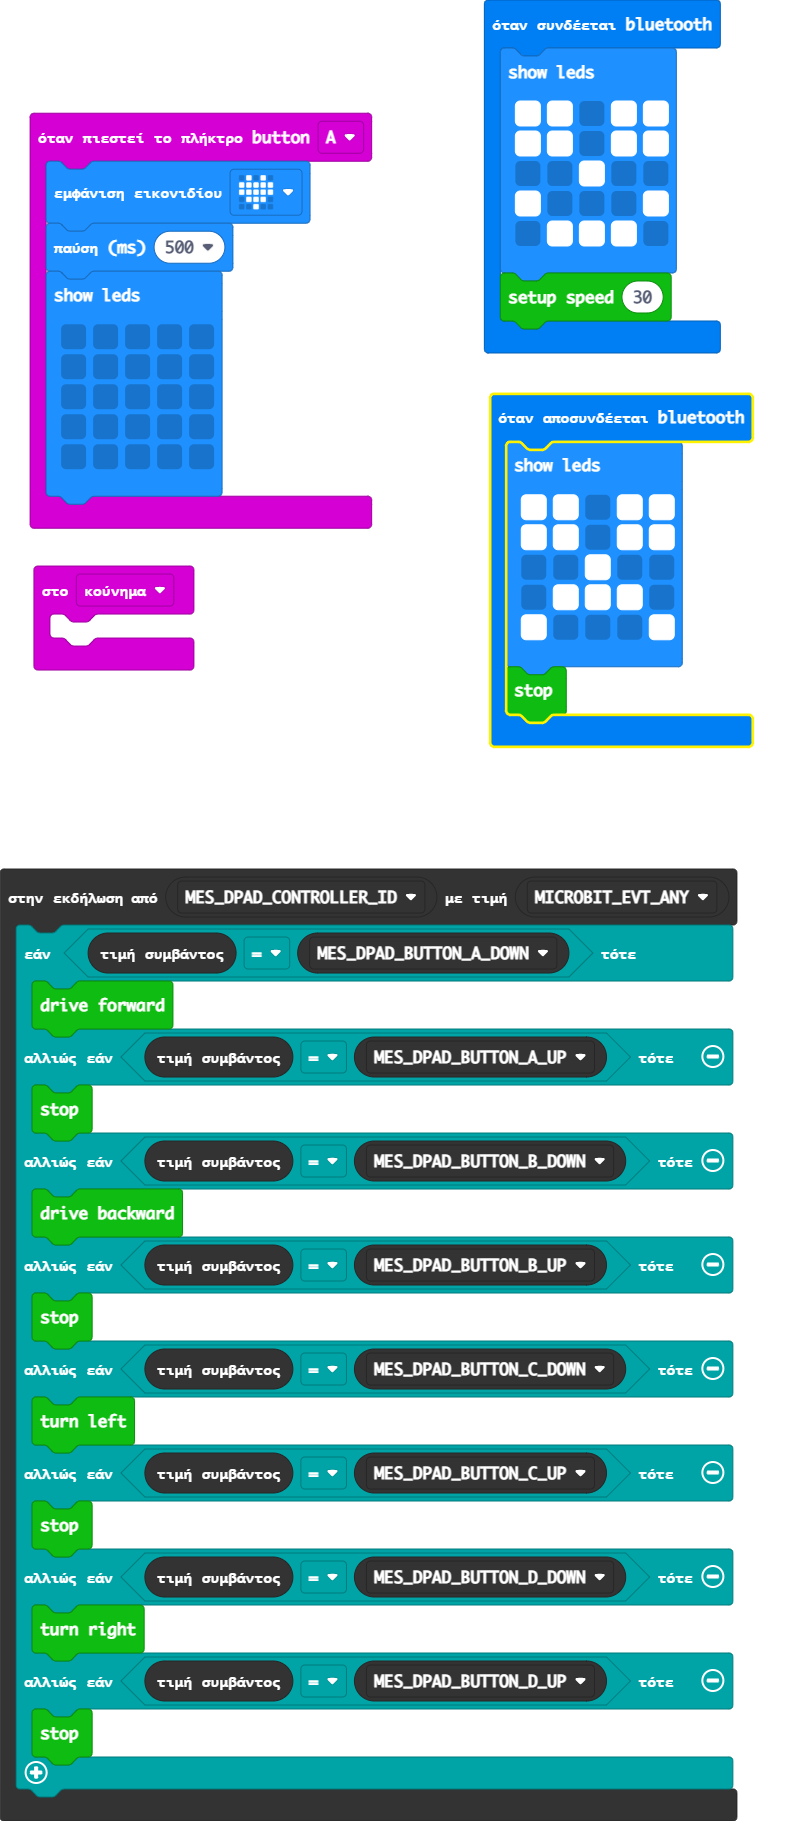
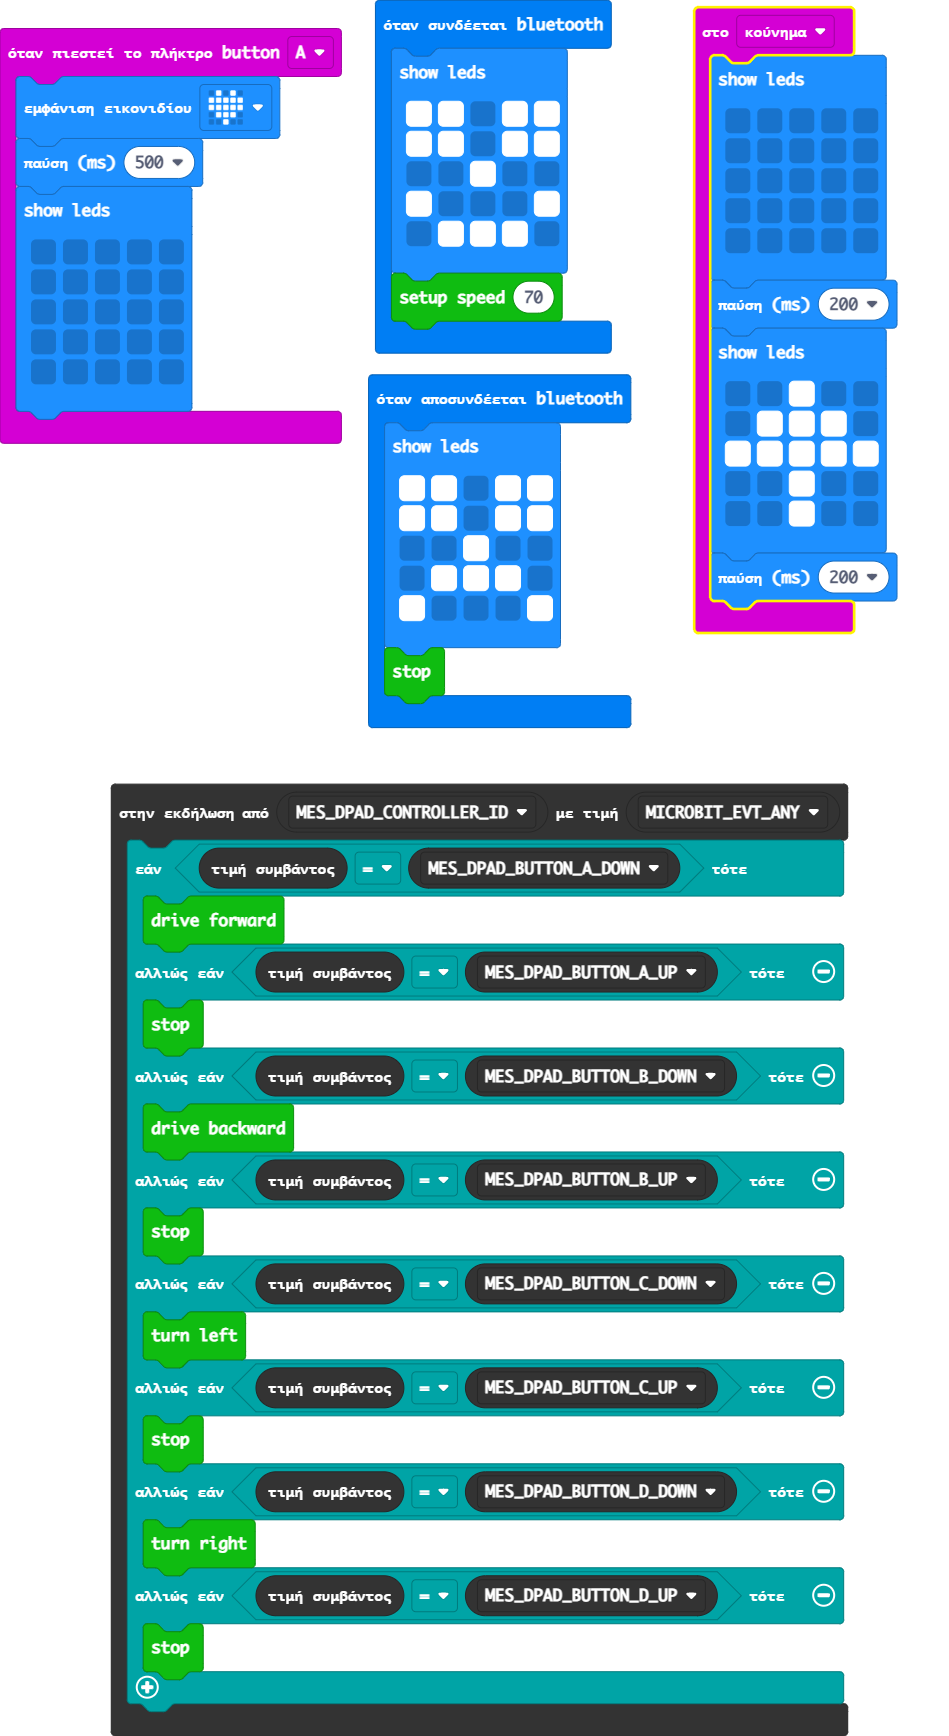
Ενημέρωση main.blocks, main.ts

diff --git a/main.ts b/main.ts
@@ -1,5 +1,20 @@
 input.onGesture(Gesture.Shake, function () {
-	
+    basic.showLeds(`
+        . . . . .
+        . . . . .
+        . . . . .
+        . . . . .
+        . . . . .
+        `)
+    basic.pause(200)
+    basic.showLeds(`
+        . . # . .
+        . # # # .
+        # # # # #
+        . . # . .
+        . . # . .
+        `)
+    basic.pause(200)
 })
 bluetooth.onBluetoothConnected(function () {
     basic.showLeds(`
@@ -9,7 +24,7 @@ bluetooth.onBluetoothConnected(function () {
         # . . . #
         . # # # .
         `)
-    ServoLite.SetDistancePerSecond(30)
+    ServoLite.SetDistancePerSecond(70)
 })
 bluetooth.onBluetoothDisconnected(function () {
     basic.showLeds(`
